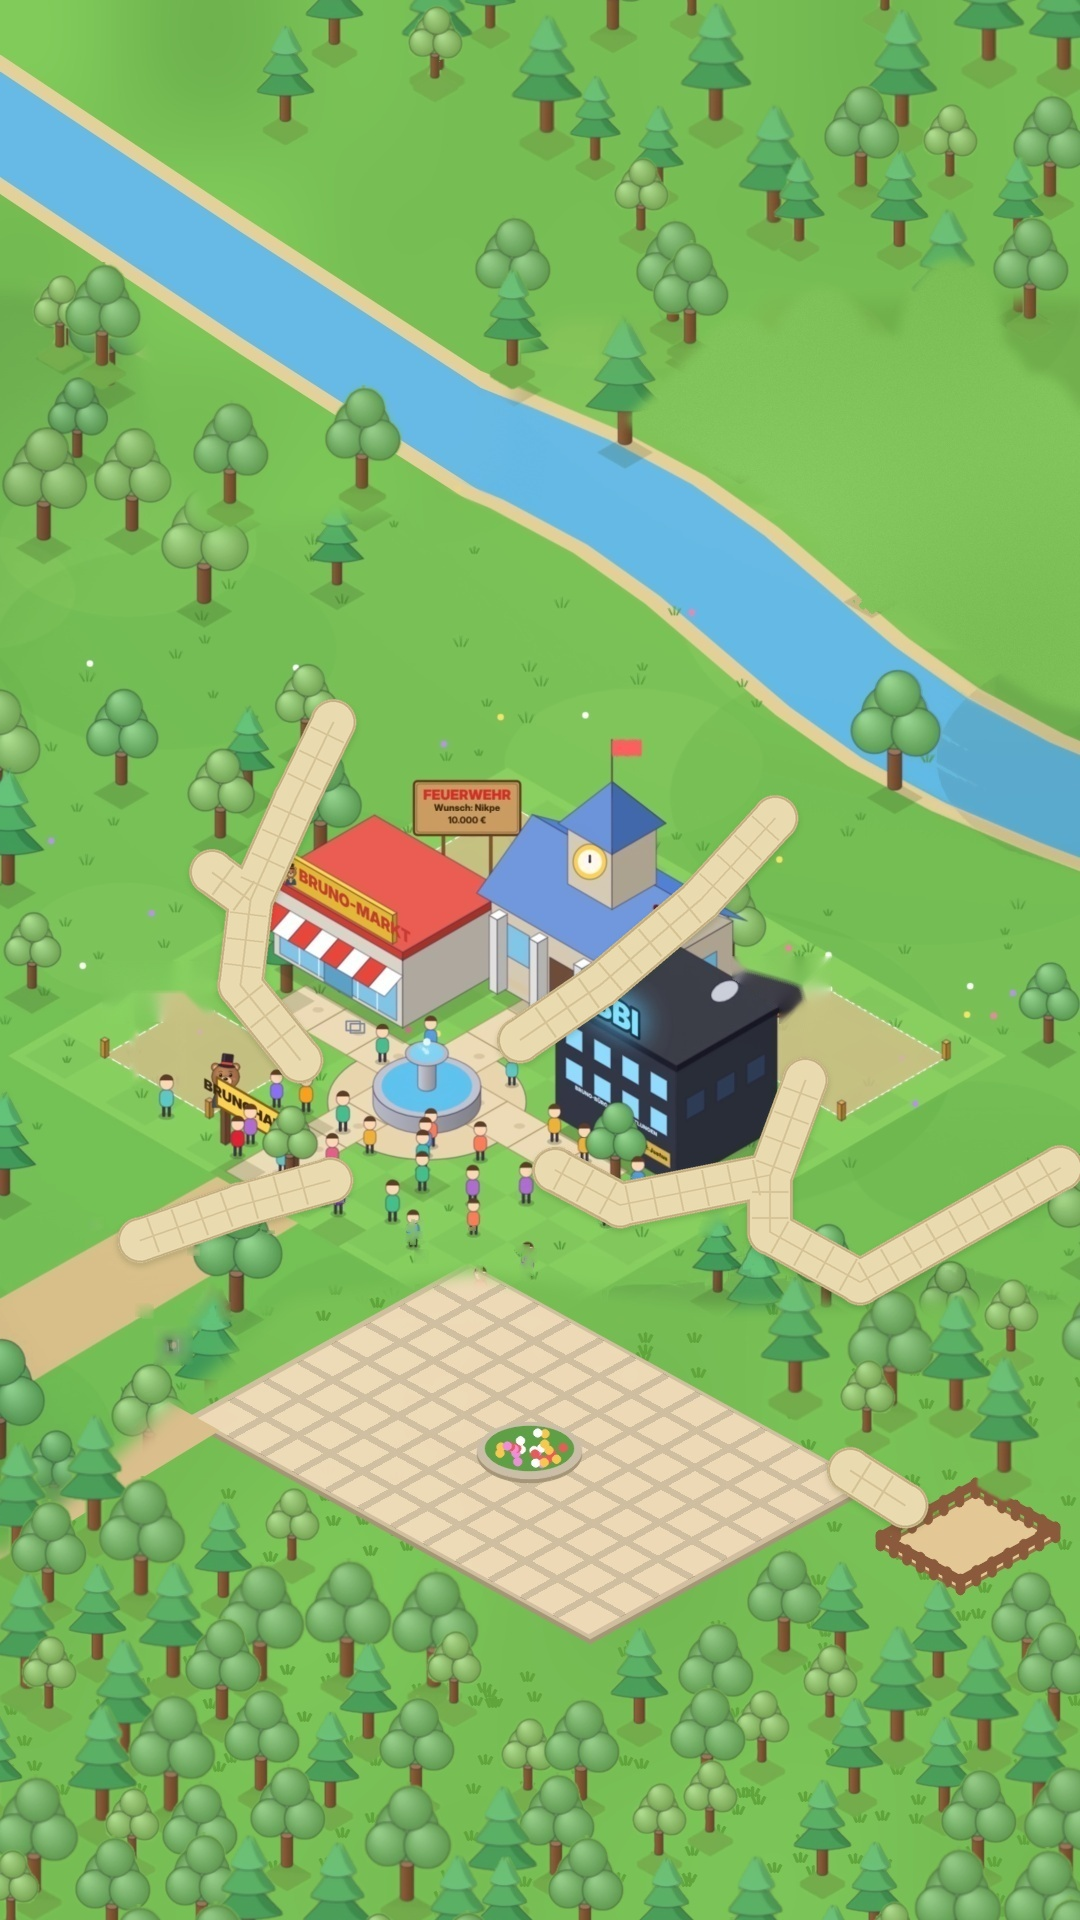
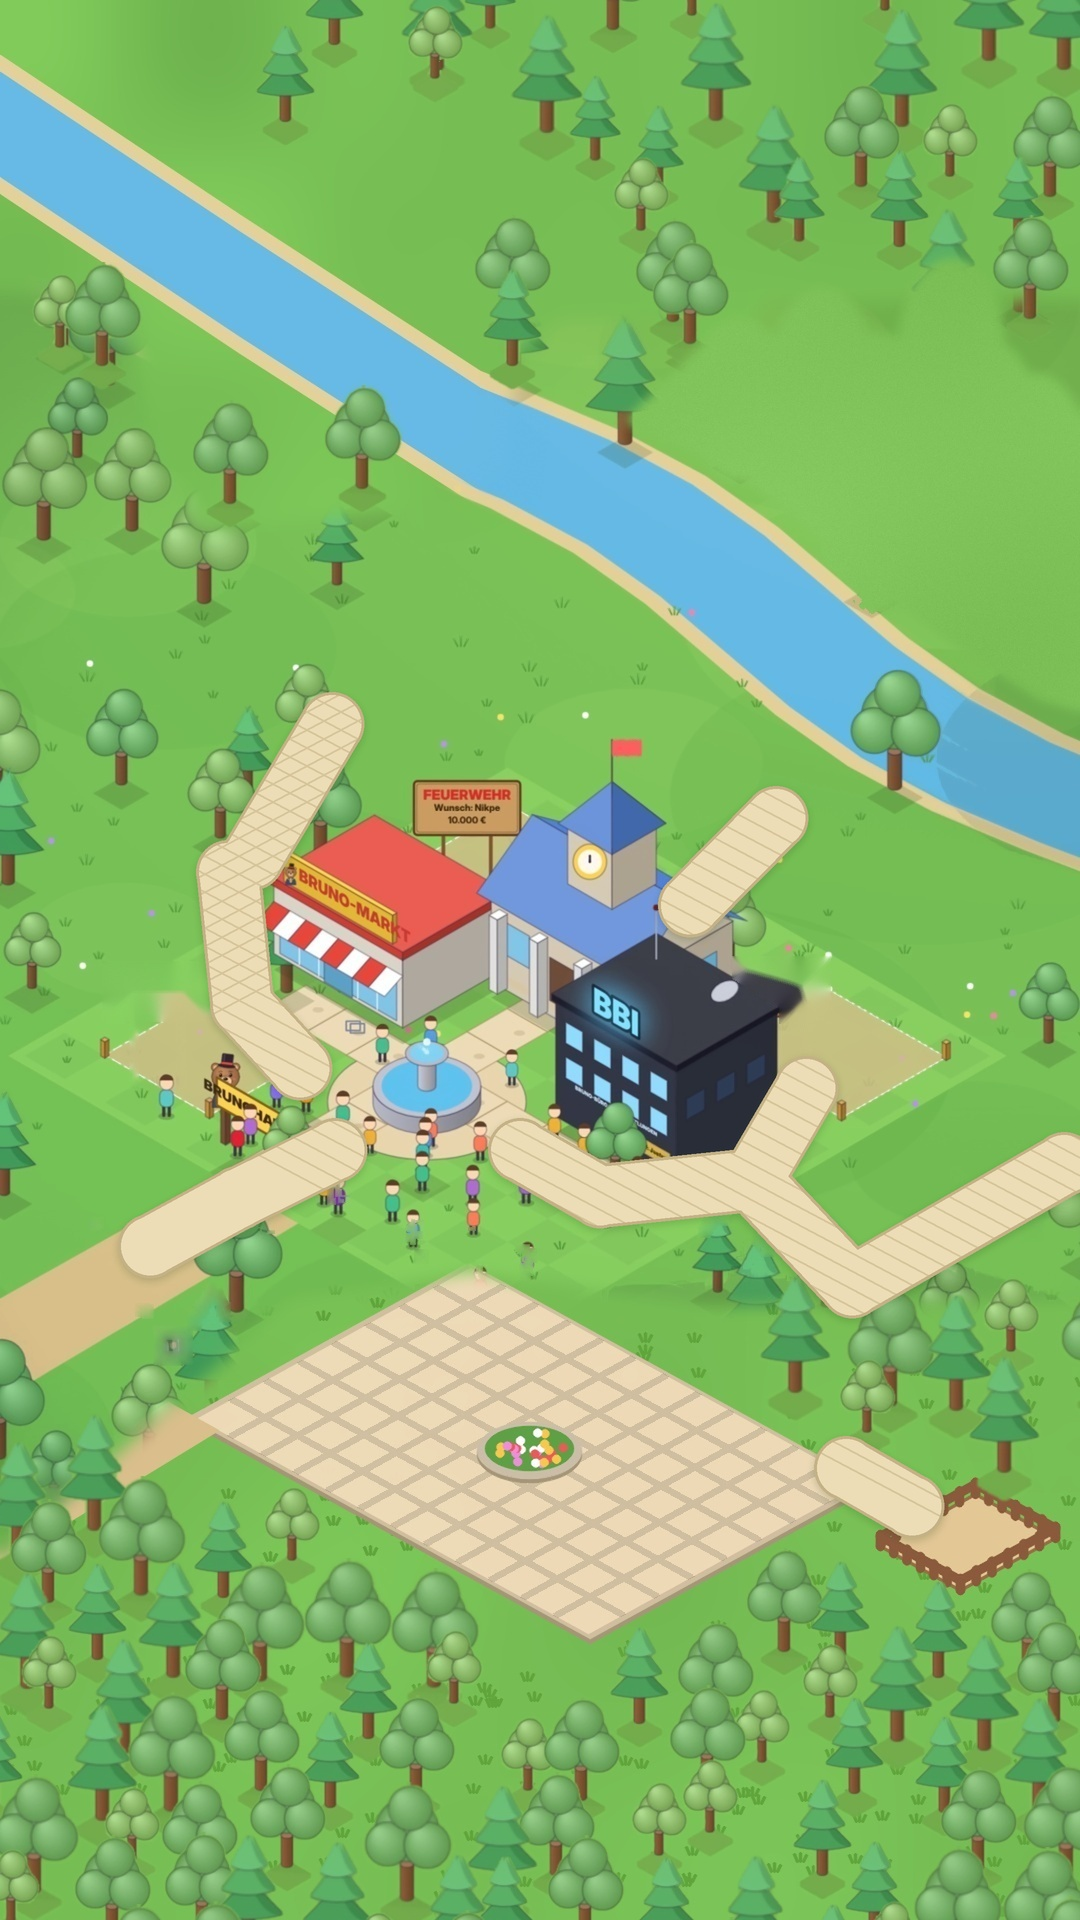
Casino und Bauernhof auf der Website, Wege wie die Hauptstraße
Claude-Session: https://claude.ai/code/session_01Pr66hNnRLfcFYWMz66UZwJ

diff --git a/index.html b/index.html
@@ -354,6 +354,8 @@ lane(-2, 7, 1, 7);  lane(-2, 3, -2, 7); lane(-2, 3, 3, 3);   // Krankenhaus + Fe
 lane(-3, 11, 4, 11);                                         // Schlüsselladen
 lane(10, 7, 11, 7); lane(11, -2, 11, 7); lane(8, 3, 11, 3);  // Polizei
 lane(4, -2, 11, -2);                                         // Mehrfamilienhäuser
+lane(11, 4, 15, 4);                                          // Casino
+lane(-8, 6, -2, 6);                                          // Bauernhof
 let PATH_P = 0;
 function onPath(x, y) { return PATH_P > 0.05 && ((Math.abs(x - 6) < 0.8 && y > 4) || (Math.abs(y - 8) < 0.8 && x > 2 && x < 10) || Math.hypot(x - 6, y - 8) < 1.8 || SIDE.has(Math.floor(x) + ',' + Math.floor(y))); }
 function drawPaths(c, p) {
@@ -721,6 +723,8 @@ const DLOT = { x: 1.0, y: 8.7, w: 2.6, d: 2.3 }, FLOT = { x: 0.7, y: 0.6, w: 3.0
 const RAT = { x: 4.2, y: 2.2, w: 3.6, d: 2.4 };
 const KLOT = { x: -2.6, y: 0.9, w: 2.4, d: 2.2 };
 const SLOT = { x: -2.5, y: 8.7, w: 1.9, d: 1.7 };
+const CLOT = { x: 12.6, y: 0.4, w: 2.8, d: 3.0 }; // Casino (Folge 10)
+const HOFL = { x: -9.4, y: 1.0, w: 5.4, d: 4.6 }; // Bauernhof (Folge 10)
 const ALOT = { x: -7.3, y: -12.2, w: 3.0, d: 2.0 }; // Atomkraftwerk-Bauplatz am Fluss
 const HLOTS = [{ x: 4.6, y: -3.7, w: 1.5, d: 1.4 }, { x: 6.6, y: -3.7, w: 1.5, d: 1.4 }, { x: 8.6, y: -3.7, w: 1.5, d: 1.4 }];
 const inFoot = (x, y, b, m = 0.6) => x > b.x - m && x < b.x + b.w + m && y > b.y - m && y < b.y + b.d + m;
@@ -893,6 +897,9 @@ function mehrfamilienhaus(c, L, i) {
   box(c, x - 0.05, y - 0.05, h, w + 0.1, d + 0.1, 0.14, '#c9564b');
   faceText(c, x + w / 2, y + d, h - 0.17, 'HAUS ' + (i + 1), CAM.k * 0.2, '#1d2440');
 }
+// Casino & Bauernhof: 1:1 aus dem Video (Folge 10) als Bild
+const SPR = {}; ['casino', 'hof'].forEach(n => { const im = new Image(); im.src = 'img_' + n + '.png'; SPR[n] = im; });
+function sprite(c, im, L, ax, ay) { if (!im.complete || !im.naturalWidth) return; const p = P(L.x + L.w, L.y + L.d, 0), s = CAM.k / 46; c.drawImage(im, p[0] - ax * s, p[1] - ay * s, im.naturalWidth * s, im.naturalHeight * s); }
 function drawCity(t) {
   CAM = { x: view.x + Math.sin(t * 0.07) * 0.25, y: view.y, k: view.k };
   octx.setTransform(1, 0, 0, 1, 0, 0); octx.clearRect(0, 0, W, H); const c = octx;
@@ -900,7 +907,7 @@ function drawCity(t) {
   lotGround(c, DLOT, t, 1); lotGround(c, FLOT, t, 1); lotGround(c, PLOT, t, 1); if (CONFIG.followers < 637) lotGround(c, ALOT, t, 1);
   const items = [];
   const has = id => { const b = CONFIG.buildings.find(q => q.id === id); return b && (!b.at || CONFIG.followers >= b.at); };
-  TREES.forEach(tr => { if (SIDE.has(Math.floor(tr.x) + ',' + Math.floor(tr.y)) || [MARKET, BBI, DLOT, FLOT, PLOT, KLOT, SLOT, ...HLOTS].some(b => inFoot(tr.x, tr.y, b)) || (has('akw') && inFoot(tr.x, tr.y, { x: ALOT.x - 1.6, y: ALOT.y - 2.6, w: ALOT.w + 3.4, d: ALOT.d + 3.6 }, 0.9)) || inFoot(tr.x, tr.y, ALOT)) return; const p = P(tr.x, tr.y, 0); if (p[0] < -200 || p[0] > W + 200 || p[1] < -200 || p[1] > H + 400) return;
+  TREES.forEach(tr => { if (SIDE.has(Math.floor(tr.x) + ',' + Math.floor(tr.y)) || [MARKET, BBI, DLOT, FLOT, PLOT, KLOT, SLOT, CLOT, HOFL, ...HLOTS].some(b => inFoot(tr.x, tr.y, b)) || (has('akw') && inFoot(tr.x, tr.y, { x: ALOT.x - 1.6, y: ALOT.y - 2.6, w: ALOT.w + 3.4, d: ALOT.d + 3.6 }, 0.9)) || inFoot(tr.x, tr.y, ALOT)) return; const p = P(tr.x, tr.y, 0); if (p[0] < -200 || p[0] > W + 200 || p[1] < -200 || p[1] > H + 400) return;
     items.push({ k: tr.x + tr.y, f: () => tree(c, tr, Math.sin(t * 1.6 + tr.x) * CAM.k * 0.03) }); });
   items.push({ k: 11.2, f: () => { shadow(c, 4.2, 2.2, 3.6, 2.4, 0.22); rathaus(c, 0, 1, t); } });
   items.push({ k: 14.1, f: () => brunnen(c, 0, 1, t) });
@@ -916,6 +923,8 @@ function drawCity(t) {
   else items.push({ k: PLOT.x + 1.5 + PLOT.y + 2.6, f: () => board(c, PLOT.x + 1.5, PLOT.y + 2.6, ['POLIZEI', 'Wunsch: Nikpe', miss > 0 ? 'fehlen ' + miss + ' Follower' : 'ab 571 Follower'], '#1d4ed8', t, -1) });
   if (has('kh')) items.push({ k: KLOT.x + KLOT.w / 2 + KLOT.y + KLOT.d / 2, f: () => { shadow(c, KLOT.x, KLOT.y, KLOT.w, KLOT.d, 0.22); krankenhausW(c); } });
   if (has('schluessel')) items.push({ k: SLOT.x + SLOT.w / 2 + SLOT.y + SLOT.d / 2, f: () => { shadow(c, SLOT.x + 0.2, SLOT.y + 0.2, 1.5, 1.3, 0.22); schluesselW(c, t); } });
+  if (has('casino')) items.push({ k: CLOT.x + CLOT.w / 2 + CLOT.y + CLOT.d / 2, f: () => sprite(c, SPR.casino, CLOT, 162, 386) });
+  if (has('hof')) items.push({ k: HOFL.x + HOFL.w / 2 + HOFL.y + HOFL.d / 2, f: () => sprite(c, SPR.hof, HOFL, 172, 175) });
   if (has('mfh')) HLOTS.forEach((L, i) => items.push({ k: L.x + L.w / 2 + L.y + L.d / 2, f: () => { shadow(c, L.x, L.y, L.w, L.d, 0.22); mehrfamilienhaus(c, L, i); } }));
   if (has('akw')) items.push({ k: ALOT.x + ALOT.w / 2 + ALOT.y + ALOT.d / 2, f: () => { shadow(c, ALOT.x + 0.4, ALOT.y + 0.6, 2.1, 1.4, 0.22); akwW(c, t); } });
   else items.push({ k: ALOT.x + ALOT.w / 2 + ALOT.y + ALOT.d + 0.3, f: () => board(c, ALOT.x + ALOT.w / 2, ALOT.y + ALOT.d + 0.3, ['ATOMKRAFTWERK ☢', 'Bauplatz am Fluss', 'fehlen nur noch 500 €'], '#2e8b2e', t, -1) });

diff --git a/studio/folge11/paths11.py b/studio/folge11/paths11.py
@@ -1,37 +1,34 @@
-from PIL import Image,ImageDraw,ImageFilter
-import math,sys
-S=2
-src=sys.argv[1]; dst=sys.argv[2]
-base=Image.open(src).convert('RGB'); W,H=base.size
+from PIL import Image,ImageDraw,ImageFilter,ImageChops
+import sys
+src,dst=sys.argv[1],sys.argv[2]
+base=Image.open(src).convert('RGB'); W,H=base.size; S=2
 PATHS=[
- [(140,1240),(240,1205),(330,1180)],                 # Schlüsselladen
- [(212,872),(250,900),(240,985),(300,1060)],          # Krankenhaus
- [(333,722),(295,800),(250,900)],                     # Bauernhof
- [(775,818),(700,900),(600,985),(520,1040)],          # Casino
- [(805,1080),(770,1175),(620,1205),(555,1170)],       # Polizei
- [(1060,1168),(860,1282),(770,1232),(770,1175)],      # Mehrfamilienhäuser
- [(850,1470),(905,1505)],                             # Spielplatz
+ [(150,1246),(238,1198),(335,1150)],                       # Schlüsselladen -> Platz
+ [(228,872),(242,1005),(300,1068)],             # Krankenhaus -> Platz
+ [(332,724),(252,858)],                         # Bauernhof -> Krankenhaus-Weg
+ [(776,818),(690,905)],                         # Casino -> Rathaus
+ [(806,1088),(752,1180),(600,1196),(520,1150)],            # Polizei -> Platz
+ [(1064,1164),(852,1286),(752,1180)],           # Mehrfamilienhäuser
+ [(846,1468),(912,1506)],                       # Spielplatz
 ]
-def draw(img,w,col):
-  d=ImageDraw.Draw(img)
+WID=58
+def mask(w):
+  m=Image.new('L',(W*S,H*S),0); d=ImageDraw.Draw(m)
   for pl in PATHS:
-    pts=[(x*S,y*S) for x,y in pl]
-    d.line(pts,fill=col,width=int(w*S),joint='curve')
-    for p in pts: d.ellipse([p[0]-w*S/2,p[1]-w*S/2,p[0]+w*S/2,p[1]+w*S/2],fill=col)
-big=Image.new('RGBA',(W*S,H*S),(0,0,0,0))
-draw(big,46,(196,176,132,255)); draw(big,40,(234,218,176,255))
-# Fugen
-d=ImageDraw.Draw(big)
-for pl in PATHS:
-  for (x0,y0),(x1,y1) in zip(pl,pl[1:]):
-    L=math.hypot(x1-x0,y1-y0); ux,uy=(x1-x0)/L,(y1-y0)/L; nx,ny=-uy,ux
-    k=14
-    while k<L-6:
-      cx,cy=x0+ux*k,y0+uy*k
-      d.line([((cx+nx*18)*S,(cy+ny*18)*S),((cx-nx*18)*S,(cy-ny*18)*S)],fill=(214,196,150,255),width=2*S); k+=26
-    d.line([((x0+nx*0)*S,(y0)*S),((x1)*S,(y1)*S)],fill=(214,196,150,255),width=2*S)
-sm=big.resize((W,H),Image.LANCZOS)
-sh=Image.new('RGBA',(W,H),(0,0,0,0)); a=sm.split()[3].filter(ImageFilter.GaussianBlur(3)).point(lambda v:int(v*0.18))
-sh.putalpha(a); 
-shadow=Image.merge('RGBA',(*Image.new('RGB',(W,H),(30,60,20)).split(),a)); out=base.convert('RGBA'); out.alpha_composite(shadow,(0,3)); out.alpha_composite(sm)
-out.convert('RGB').save(dst,quality=95)
+    pts=[(x*S,y*S) for x,y in pl]; d.line(pts,fill=255,width=int(w*S))
+    for p in pts: r=w*S/2; d.ellipse([p[0]-r,p[1]-r,p[0]+r,p[1]+r],fill=255)
+  return m
+outer=mask(WID+6); inner=mask(WID)
+tile=Image.new('RGB',(W*S,H*S),(236,221,182)); d=ImageDraw.Draw(tile)
+# iso-Fugen wie auf dem großen Platz (Steigung ±0.53)
+sp=34*S
+for k in range(-H*S,W*S*2,sp):
+  d.line([(k,0),(k+H*S/0.53,H*S)],fill=(214,197,154),width=2*S)
+  d.line([(k,0),(k-H*S/0.53,H*S)],fill=(214,197,154),width=2*S)
+edge=Image.new('RGB',(W*S,H*S),(196,177,134))
+big=base.resize((W*S,H*S),Image.LANCZOS)
+shadow=outer.filter(ImageFilter.GaussianBlur(4*S)).point(lambda v:int(v*0.22))
+dark=Image.new('RGB',(W*S,H*S),(40,70,25))
+big=Image.composite(dark,big,ImageChops.offset(shadow,0,3*S))
+big=Image.composite(edge,big,outer); big=Image.composite(tile,big,inner)
+big.resize((W,H),Image.LANCZOS).save(dst,quality=95)
